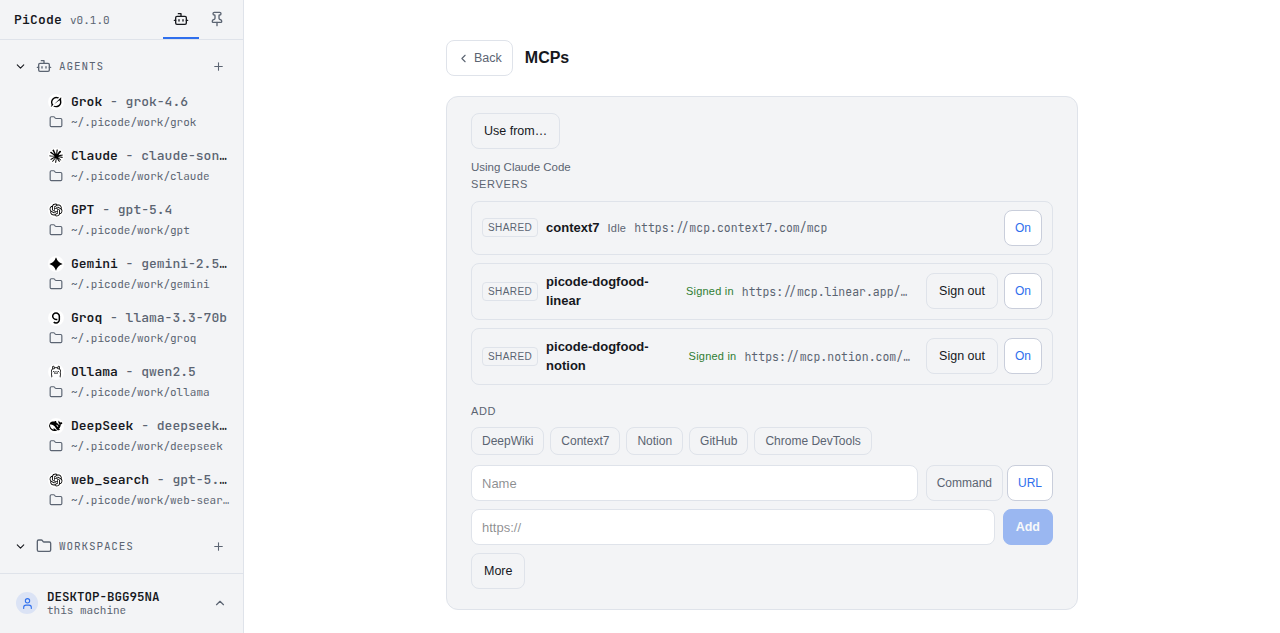
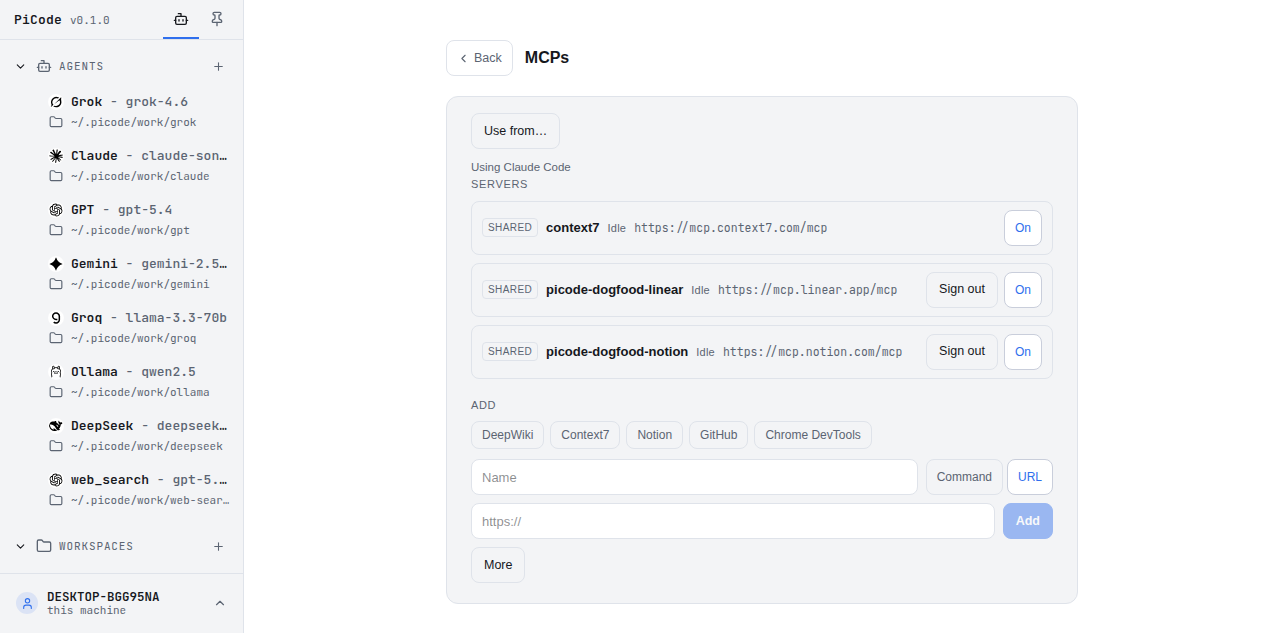
mcp: Sign out is the signed-in state, drop the extra label
The green Signed in word duplicated Sign out and squeezed the URL.

diff --git a/web/src/components/Mcps.jsx b/web/src/components/Mcps.jsx
@@ -338,7 +338,7 @@ export default function Mcps({ hidden, workspaceId, workspaceName, workspacePath
               <h3>Servers</h3>
               <ul className="mcp-list">
                 {servers.map((s) => {
-                  const word = rowLive(s, justSigned[s.name]);
+                  const word = rowLive(s);
                   return (
                   <li key={s.layer + ":" + s.name} className={"mcp-row" + (s.disabled ? " off" : "")}>
                     <div className="mcp-row-main">
@@ -647,16 +647,14 @@ function loopbackRedirect(authUrl) {
   }
 }
 
-function rowLive(s, extra) {
+function rowLive(s) {
   if (s.live === "live" || s.live === "failed") return s.live;
-  if (s.signedIn || extra) return "signed";
   return s.live || "";
 }
 
 function liveLabel(v) {
   if (v === "live") return "Live";
   if (v === "failed") return "Failed";
-  if (v === "signed") return "Signed in";
   if (v === "signin") return "Sign in";
   return "Idle";
 }
@@ -664,7 +662,6 @@ function liveLabel(v) {
 function liveTitle(v) {
   if (v === "live") return "Connected";
   if (v === "failed") return "Last connect failed";
-  if (v === "signed") return "This machine has a login";
   if (v === "signin") return "Needs sign-in";
   return "Not used yet";
 }

diff --git a/web/src/styles/app.css b/web/src/styles/app.css
@@ -449,7 +449,7 @@ body {
   flex: none; font-size: 11px; color: var(--text-secondary);
   letter-spacing: 0.02em;
 }
-.mcp-live.live, .mcp-live.signed { color: var(--ok); }
+.mcp-live.live { color: var(--ok); }
 .mcp-live.failed { color: var(--danger); }
 .mcp-live.signin { color: var(--accent); }
 button.mcp-live {

diff --git a/docs/handoff.md b/docs/handoff.md
@@ -30,7 +30,7 @@ What exists:
 - MCP **Use from…** mirrors other apps. User picks; Off hides a server. Empty host files are not offered.
 - MCP Add **More**: env on command servers; headers + Sign in / Token on URL servers.
 - MCP list live state: Idle / Live / Failed / Sign in when the GUI agent is running. File Off has no word.
-- MCP **Sign in** is automatic like providers: short `pi -e` runs headless `authenticate()` (no paste). Pi does not open the browser. GUI `window.open`s the URL once. Overlay ends when the callback HTML is served (keyring write continues). OAuth rows with tokens show **Signed in** and **Sign out** (forgets the keyring login on this machine).
+- MCP **Sign in** is automatic like providers: short `pi -e` runs headless `authenticate()` (no paste). Pi does not open the browser. GUI `window.open`s the URL once. Overlay ends when the callback HTML is served (keyring write continues). OAuth rows with tokens show **Sign out** (forgets the keyring login on this machine). No extra “Signed in” label.
 
 ## In flight
 
@@ -61,6 +61,7 @@ Backup V1 shipped (local directory). Remote S3/Drive is later. llama.cpp depth i
 
 ## Recent activity
 
+- **2026-08-27** — Signed-in rows do not also say “Signed in”; **Sign out** is the state. visual-review: PASS (mcp-signout.png).
 - **2026-08-27** — MCP **Sign out** forgets the keyring login (Off does not). Linux secret-tool. visual-review: PASS (mcp-signout.png, mcp-signout-confirm.png, overlayAudit ok).
 - **2026-08-27** — After Sign in the toast fired but the row still said Sign in: overlay ends on callback before keyring write, and Idle list does not poll without a running agent. Optimistic **Signed in** + retry load. visual-review: PASS (mcp-linear-signed.png).
 - **2026-08-27** — Linear Sign in was sending `redirect_uri=https://mcp.linear.app/callback` (Linear homepage, overlay hung). Now we register a localhost callback. Authorize URL verified `127.0.0.1` + refuse non-loopback.

diff --git a/CHANGELOG.md b/CHANGELOG.md
@@ -14,7 +14,7 @@ to the `[Unreleased]` section. The repository's official language is English
 ### Changed
 
 - MCP **Sign in** no longer needs the agent running. Add or On on an OAuth server starts Sign in. One login is shared by every agent on this machine.
-- MCP **Sign in** is automatic like Claude/Codex: PiCode opens one tab, approve, overlay ends when the callback lands (token save continues in the background). The row says **Signed in** right away (token save can lag; no agent needs to be running). No paste. Add still saves the server if that login cannot run (GitHub Copilot has no dynamic client registration). Sign in forces a localhost callback so Linear does not dump you on linear.app.
+- MCP **Sign in** is automatic like Claude/Codex: PiCode opens one tab, approve, overlay ends when the callback lands (token save continues in the background). The row swaps Sign in for **Sign out** (no extra “Signed in” label). No paste. Add still saves the server if that login cannot run (GitHub Copilot has no dynamic client registration). Sign in forces a localhost callback so Linear does not dump you on linear.app.
 - MCP list API keeps env/header **keys** and hides values (token was already write-only).
 - MCP server list is alphabetical by name (no more jumping while live status refreshes).
 - Remove on a shared server no longer turns it back On (it was only hiding the other app). Use Off.

diff --git a/www/guide/mcp.md b/www/guide/mcp.md
@@ -7,7 +7,7 @@ Canonical: [pi-mcp-adapter](https://github.com/mariozechner/pi-mcp) (install as 
 1. `#/packages` → This machine → install `npm:pi-mcp-adapter`.
 2. `#/mcps` → Add a server (command or URL). **More** adds environment variables, headers, or sign-in (OAuth / token).
 3. **Use from…** is a tree of apps and their servers. Check the ones to use. It does not copy files.
-4. The list says **Idle** until an agent uses the server, then **Live** (or **Failed**). An OAuth login already on this machine says **Signed in**.
+4. The list says **Idle** until an agent uses the server, then **Live** (or **Failed**). A login on this machine has **Sign out** instead of Sign in.
 5. **Sign in** opens the server's login page as soon as you Add or turn it On (hidden once you are signed in). Approve there — the tab returns to PiCode on its own, same as Claude/Codex. You do not need to run an agent first. One login is reused by every agent on this machine. **Sign out** forgets that login on this machine.
 
 Clicking an agent in the sidebar leaves this page and opens that agent.

diff --git a/docs/architecture.md b/docs/architecture.md
@@ -43,7 +43,7 @@ MCP manager: `GET/POST/PATCH/DELETE /api/mcp` reads and writes the adapter files
 optional `env`, `headers`, `auth` (`oauth`|`bearer`) and `bearerToken`.
 Live status (`idle`/`live`/`failed`/`signin`) comes from the adapter snapshot when
 the GUI agent is running (`-e` silent bridge). OAuth rows with tokens in the OS
-keyring show **Signed in** and **Sign out** (clears the keyring entry). Hide Sign in while signed in. **Sign in** always uses a short
+keyring show **Sign out** (clears the keyring entry). Hide Sign in while signed in. **Sign in** always uses a short
 `pi --mode rpc --no-session -e` (not a second agent — no session file, ADR-0006)
 running headless adapter `authenticate()` (callback only, no paste). Pi does not
 open the browser (WSL would spawn a second tab). Status returns the authorize URL;
